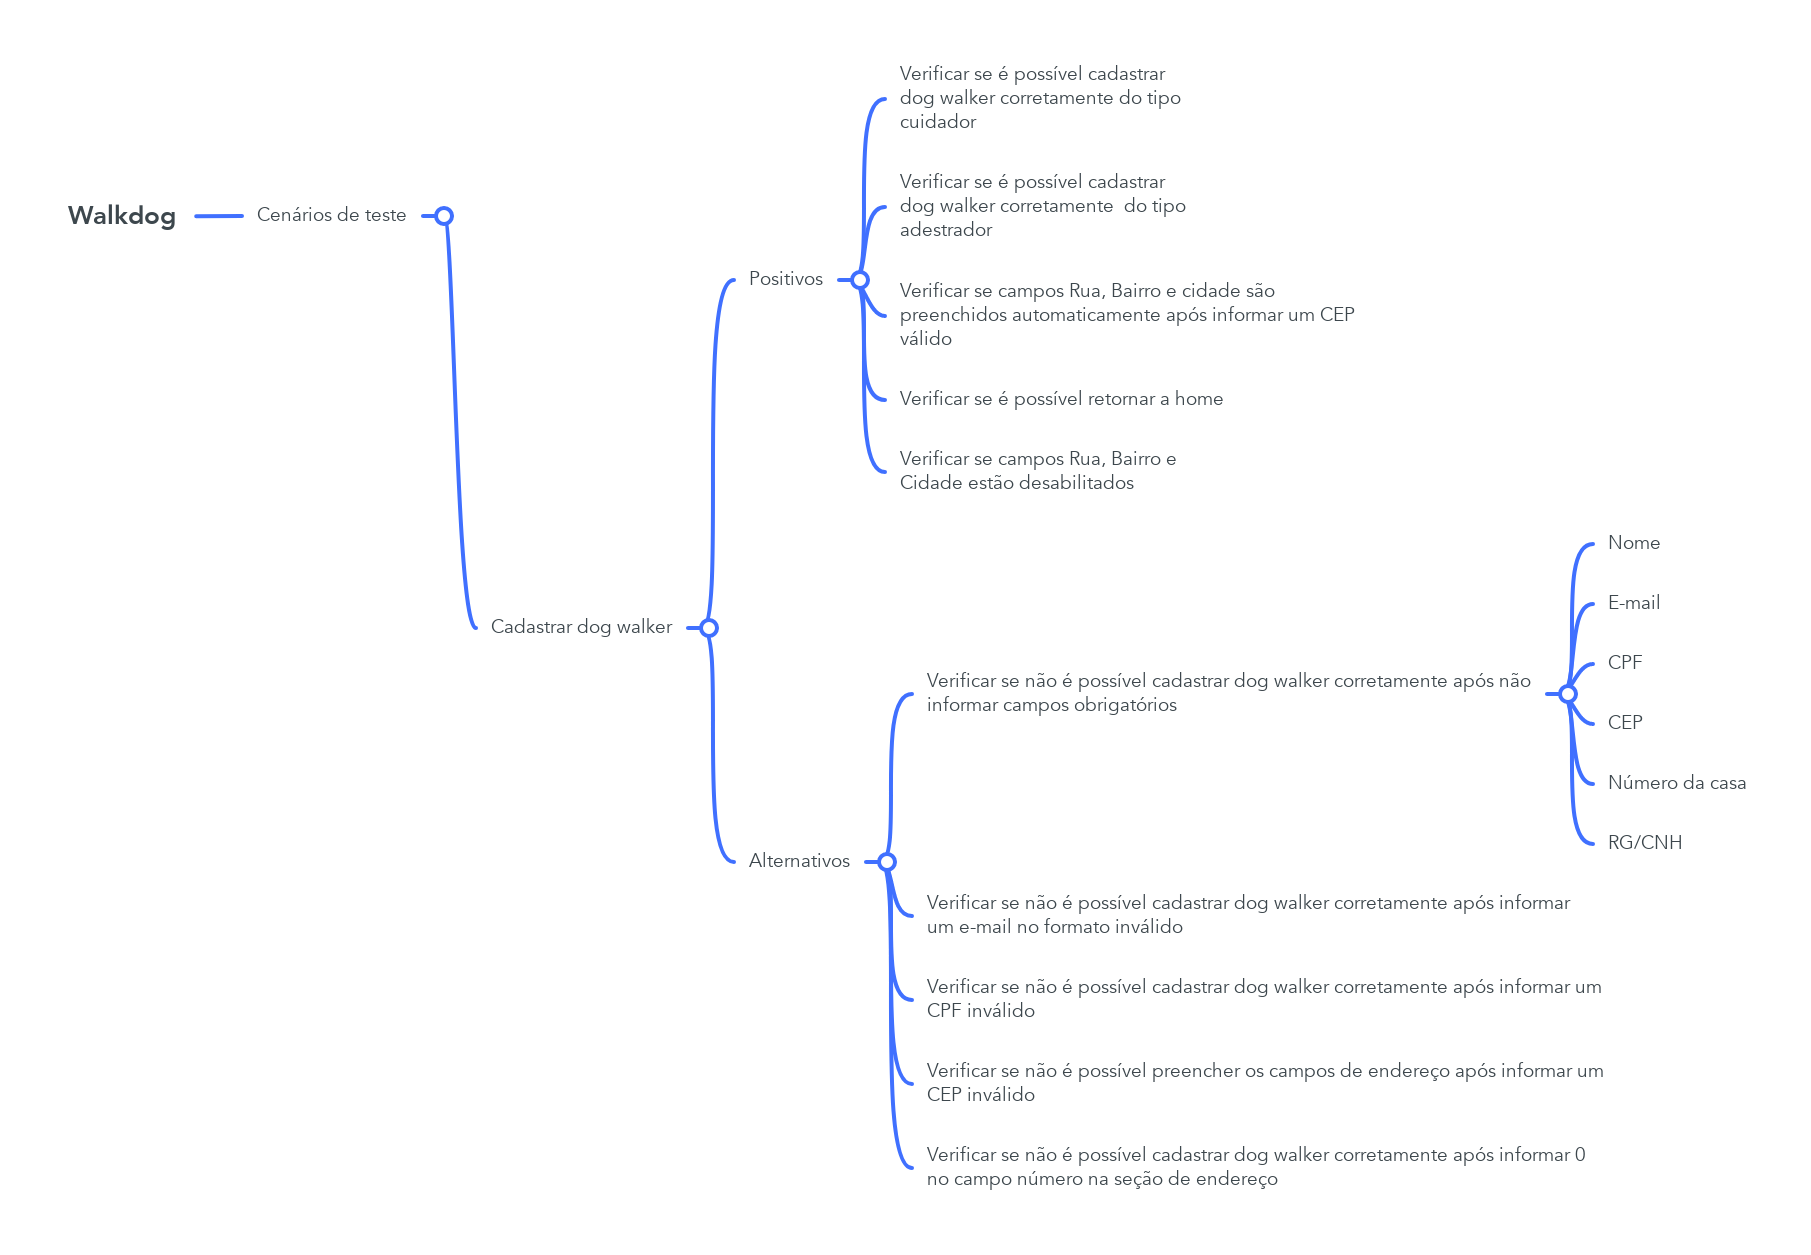
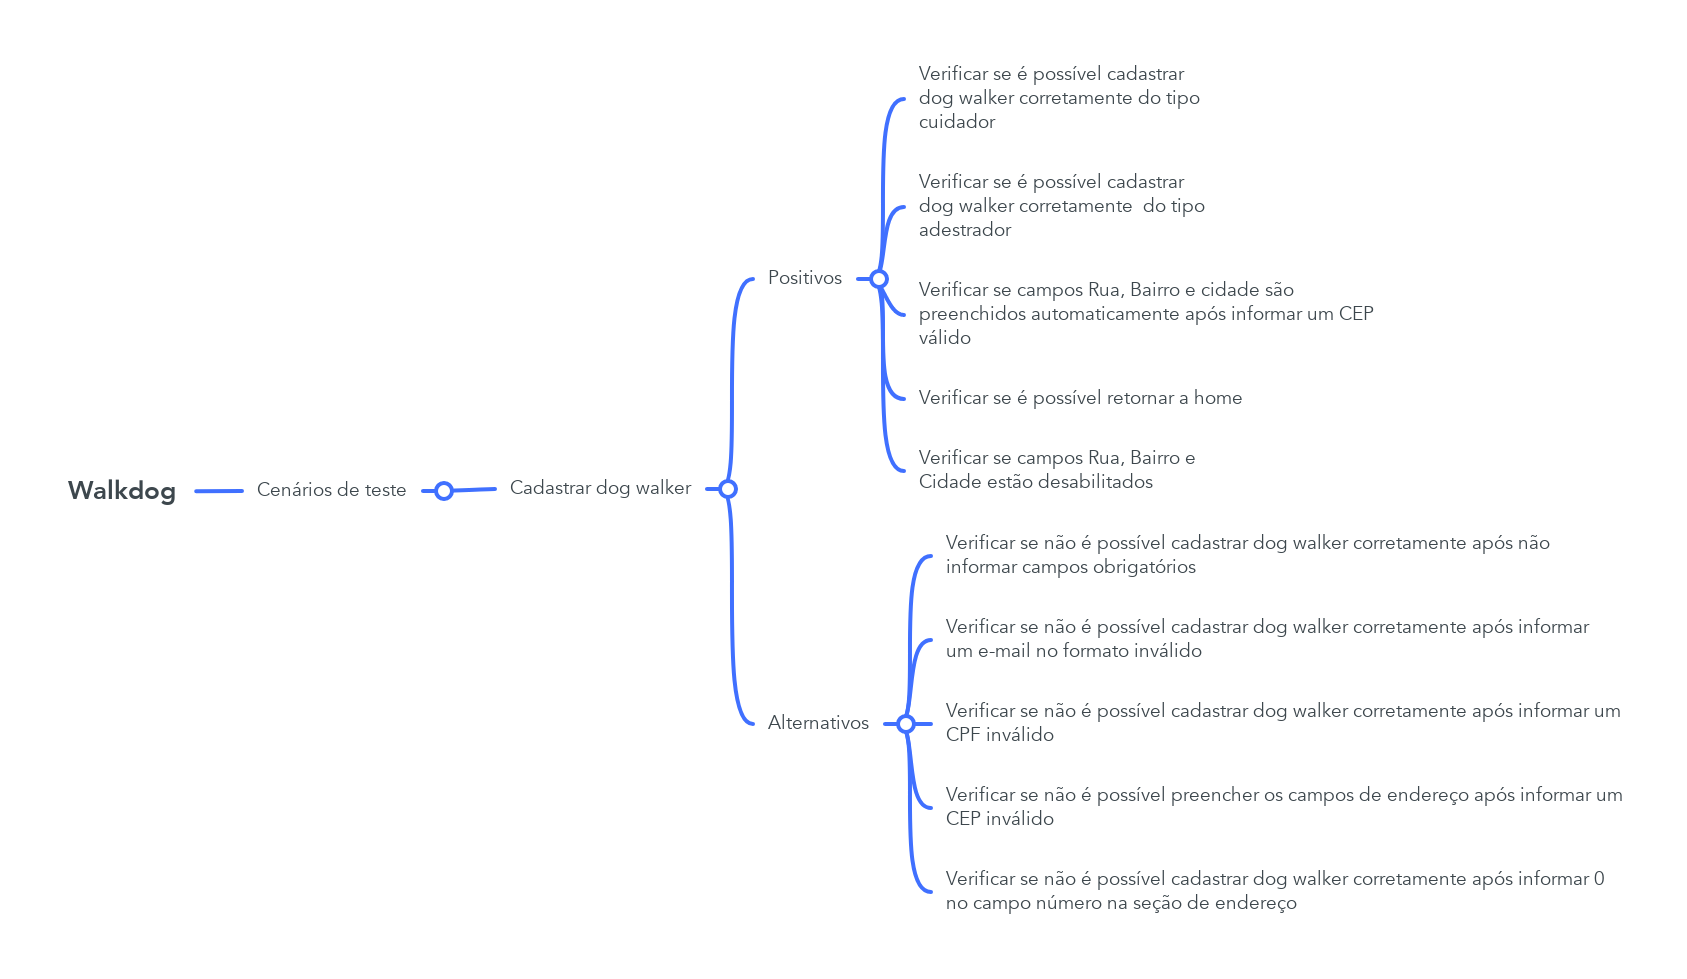
Mind map for planning added

diff --git a/README.md b/README.md
@@ -31,7 +31,7 @@ support/: Arquivos de suporte utilizados nos testes, como comandos personalizado
 # Casos de Teste
 
 <p align="center">
-  <img src="">
+  <img src="https://github.com/tatarv/walkdog-cypress/blob/main/Mind%20Map%20-%20Walkdog.jpg">
 </p>
 
 # Pré-requisitos
